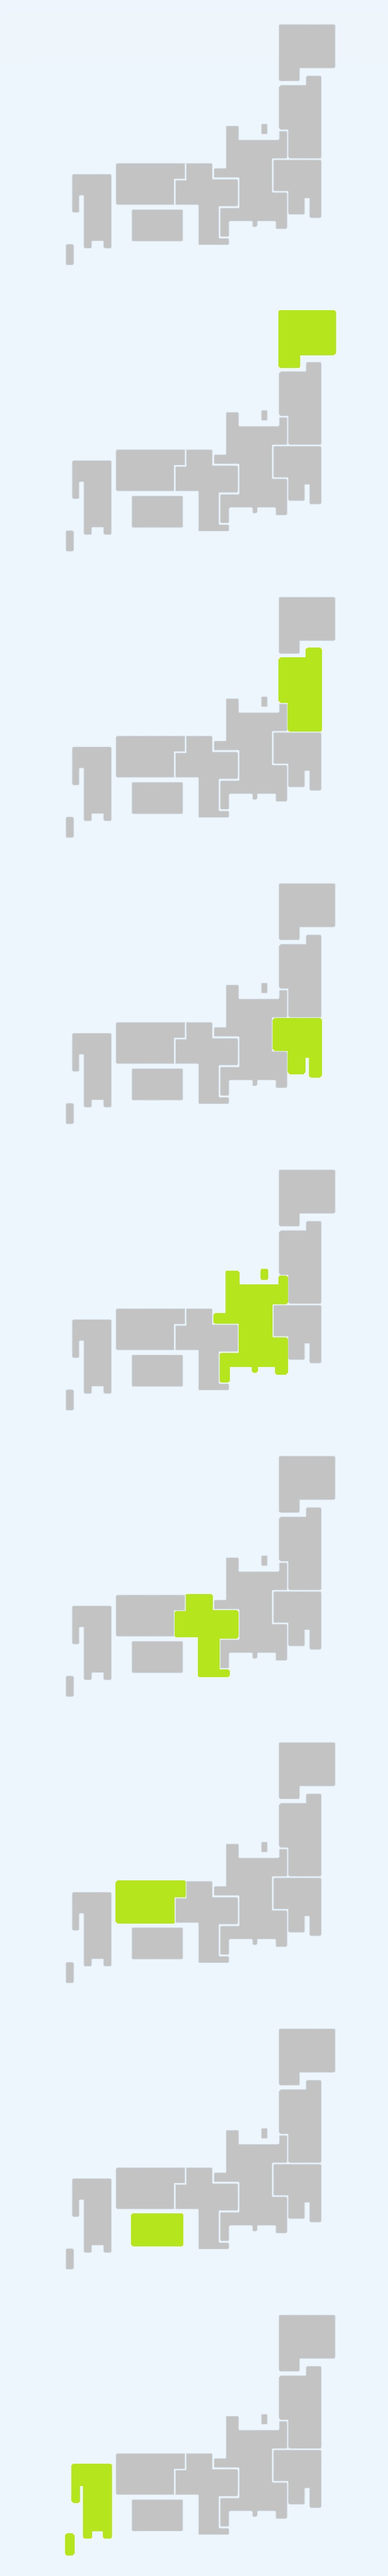
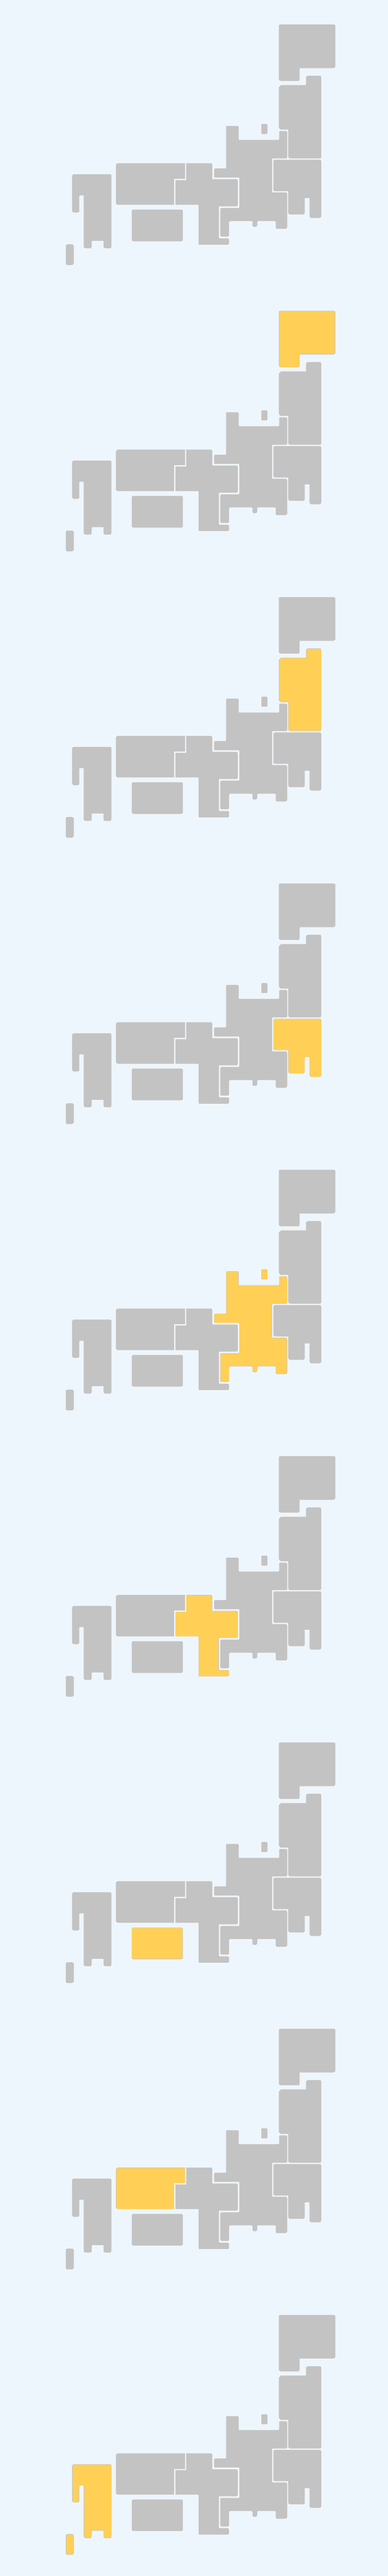
マップと場所詳細ページの画像表示の修正

diff --git a/public/css/home.css b/public/css/home.css
@@ -121,9 +121,9 @@ section + section {
     font-weight: bold;
     width: 70px;
     line-height: 35px;
-    background-color: rgba(255, 255, 255, 0.7);
+    background-color: #fff;
     color: #333;
-    border: 1px solid #333;
+    box-shadow: 2px 2px 3px rgb(100, 100, 100);
     box-sizing: border-box;
     border-radius: 10px;
     text-align: center;
@@ -136,42 +136,42 @@ section + section {
 }
 
 .region-btn.__hokkaido {
-    top: 12%;
-    right: 19%;
+    top: 13%;
+    right: 17%;
 }
 
 .region-btn.__tohoku {
     top: 35%;
-    right: 21%;
+    right: 19%;
 }
 
 .region-btn.__kanto {
-    top: 55%;
-    right: 21.5%;
+    top: 57%;
+    right: 19%;
 }
 
 .region-btn.__chubu {
-    top: 49%;
-    right: 33.5%;
+    top: 51%;
+    right: 31.5%;
 }
 
 .region-btn.__kinki {
-    top: 60%;
-    right: 44%;
+    top: 63%;
+    right: 42%;
 }
 
 .region-btn.__shikoku {
-    top: 71.5%;
-    right: 56%;
+    top: 74%;
+    right: 55%;
 }
 
 .region-btn.__chugoku {
-    top: 58%;
-    right: 59%;
+    top: 60%;
+    right: 58%;
 }
 
 .region-btn.__kyusyu {
-    top: 60%;
+    top: 63%;
     right: 72%;
 }
 
@@ -181,7 +181,7 @@ section + section {
     display: none;
     flex-wrap: wrap;
     position: absolute;
-    border: 1px solid #000;
+    box-shadow: 4px 4px 5px rgb(180, 180, 180);
     border-radius: 10px;
     justify-content: space-around;
     background-color: #fff;
@@ -196,36 +196,36 @@ section + section {
 }
 
 .pref-name:hover {
-    color: blue;
+    color: #ff9101;
 }
 
 .tohoku .prefecture {
     top: 35%;
-    right: 5%;
+    right: 2.5%;
 }
 .kanto .prefecture {
-    top: 55%;
-    right: 5.5%;
+    top: 57%;
+    right: 2.5%;
 }
 .chubu .prefecture {
-    top: 22.5%;
-    right: 33.5%;
+    top: 23.5%;
+    right: 31.5%;
 }
 .kinki .prefecture {
-    top: 67%;
-    right: 38%;
+    top: 70%;
+    right: 36%;
 }
 .shikoku .prefecture {
-    top: 79%;
-    right: 50%;
+    top: 81%;
+    right: 49%;
 }
 .chugoku .prefecture {
-    top: 41%;
-    right: 53%;
+    top: 42.5%;
+    right: 52%;
 }
 .kyusyu .prefecture {
-    top: 60%;
-    right: 82%;
+    top: 63%;
+    right: 83%;
 }
 
 .map-bg.hokkaido {
@@ -244,10 +244,10 @@ section + section {
     background-position: 0 calc((-5299px/9) * (65/16));
 }
 .map-bg.chugoku {
-    background-position: 0 calc((-5299px/3) * (13/8));
+    background-position: 0 calc((-5300px/9) * (91/16));
 }
 .map-bg.shikoku {
-    background-position: 0 calc((-5299px/9) * (91/16));
+    background-position: 0 calc((-5300px/3) * (13/8));
 }
 .map-bg.kyusyu {
     background-position: 0 calc((-5299px/9) * (13/2));

diff --git a/public/css/place/show.css b/public/css/place/show.css
@@ -31,27 +31,16 @@
 }
 
 .place-img-box {
-    position: relative;
     margin: 0 auto;
     width: 100%;
-    max-height: 430px;
-}
-
-#search {
-    padding: 10px;
-    border: 1px solid #333;
-    border-radius: 15px;
-    position: absolute;
-    top: 50%;
-    left: 50%;
-    transform: translate(-50%, -50%);
+    height: 430px;
+    text-align: center;
 }
 
 .place-img {
-    max-width: 100%;
-    max-height: 600px;
-    object-fit: contain;
-    z-index: 1;
+    width: 100%;
+    height: 100%;
+    object-fit: cover;
 }
 
 .data-ttl {
